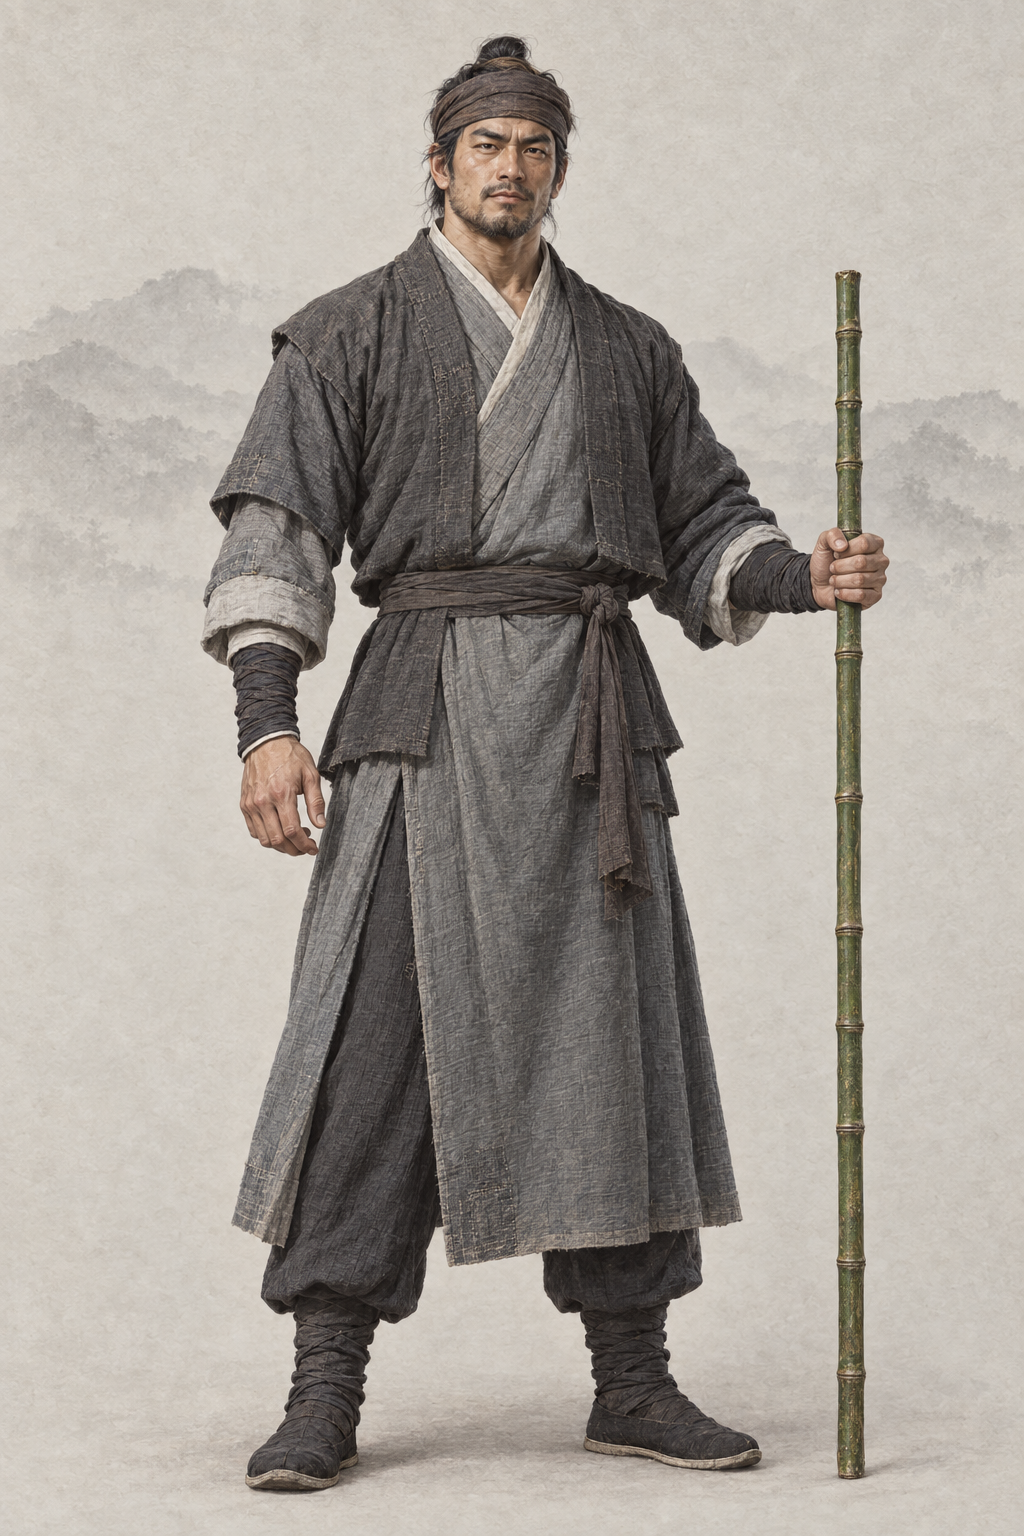
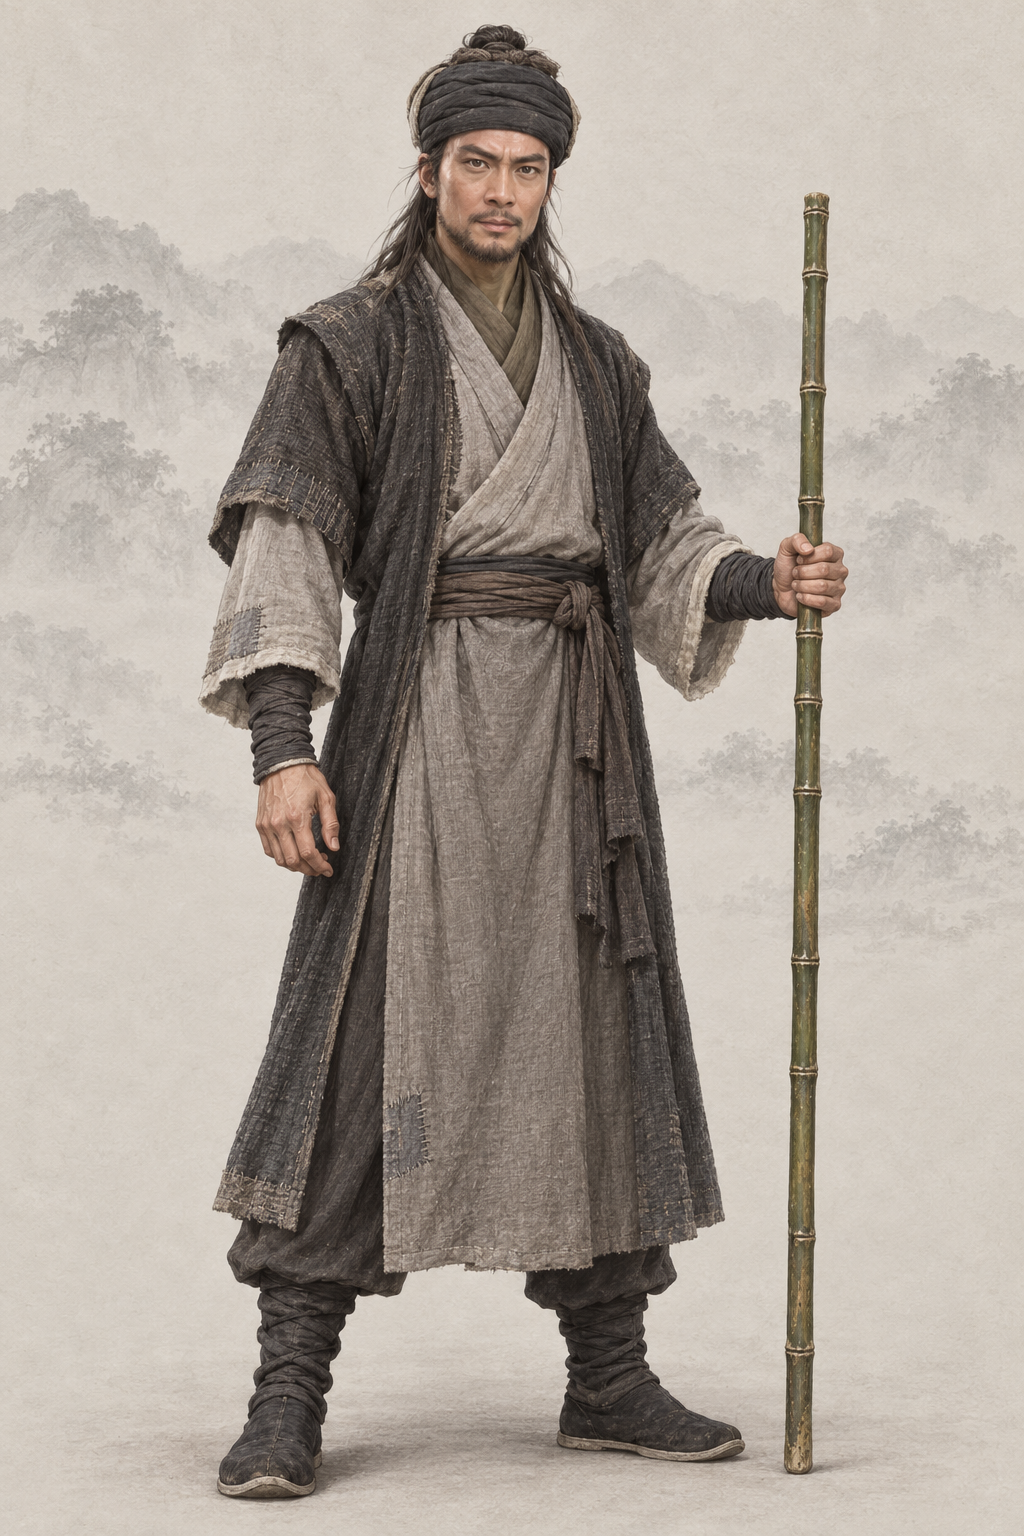
assets(character): por_npc_xiaofeng__ch01_prime_gaibang_base 萧峰（codex · AR-32 经典剧照 + 基线）
参考 1997 TVB《天龙八部》 剧照（classic_qiaofeng_still.png）与两张同性别基线重出；提示词写回、frontmatter 加 classic_ref。

diff --git a/assets/default/prompts/characters/ch01-tianlong/npc_xiaofeng.md b/assets/default/prompts/characters/ch01-tianlong/npc_xiaofeng.md
@@ -19,13 +19,45 @@ status: redo
 realism_revision: user_character_realism_20261001
 redo_reason: "面容源自剧集剧照（肖像风险）且体格不够魁伟、缠头像南亚头巾，按原著国字脸魁伟大汉重做，连同五幅场景"
 reference_upload:
+- .agents/coord/imagegen-reference/hero-20261001/classic_qiaofeng_still.png
 - assets/default/baseline/character/male/ref_npc_linghuchong__ch05_base01.png
+- assets/default/baseline/character/male/ref_npc_xiaofeng__ch01_base01.png
 codex_prompt_rev: 2026-10-02
+classic_ref:
+  version: 1997 TVB《天龙八部》
+  stills:
+  - .agents/coord/imagegen-reference/hero-20261001/classic_qiaofeng_still.png
+  crop:
+    classic_qiaofeng_still.png:
+    - 112
+    - 0
+    - 520
+    - 397
 ---
 
 # 萧峰 · 人物写实修正
 
 ## Gemini 提示词
+
+> 2026-10-02 AR-32 重出（5 号出图员，codex exec · image_gen）：主要角色改为参考经典影视版剧照加项目基线生成。上传顺序：1997 TVB《天龙八部》 剧照 1 张（classic_qiaofeng_still.png），最后两张为同性别画风基线（缩小版 JPEG）。剧照只借造型、气质与面部特征，画面按项目画风重绘、不复制照片。上一版（AR-31 文字版）保留在下一节作历史。
+
+```text
+生成一张 2:3 竖幅全身人物立绘：单人、单一视角、完整全身——头顶、双手、双脚和手中器物的两端都在画面内，四周留出自然空白；人物站姿自然，身体基本朝向正面，头部端正（不歪头、不仰不俯），镜头平视。
+【画风】写实手绘古风人物插画，与本项目写实武侠角色立绘同一画风，像功力深厚的画师用细腻笔触画出的真实人物。手绘插画质感，不是 CG 渲染：不要过度光滑的皮肤、完美对称的五官、塑料高光、过度锐利的发丝；保留自然的笔触和细微不完美。皮肤有真实质感——细小毛孔、细纹、晒痕和自然的左右不对称，不磨皮、不油亮；头发是一缕缕自然的发丝和少量碎发；布料看得出经纬纹理、厚薄和自然垂坠的褶皱，带穿用过的轻微旧化，但完整不破烂；整体设色低饱和、沉稳；柔和的自然光从左上方照来，明暗过渡自然，不打舞台光、轮廓光或美颜柔光。不是照片，不是三维渲染，不是动漫或游戏 CG，也不是油画（没有厚涂笔触和画布纹理）。
+【背景】不透明的暖浅灰色纸底，只在远处有极淡的水墨远山和薄雾，大面积留白；人物与背景明暗分明、轮廓边缘干净完整（后续要自动抠图），水墨和纸纹只在背景里，不侵入人物和衣服；脚下只有很淡的一点接触阴影。
+【人物】萧峰（此时仍叫乔峰），《天龙八部》北宋（约 1093 年）丐帮帮主，杏子林身世揭露之前；豪迈坦荡、重义气的盖世英雄。
+【年龄与体态】约三十岁的壮年男子，身材高大魁伟（明显比常人高出半头），肩宽背厚、胸膛宽阔，前臂粗壮、手掌宽大，筋骨扎实而不是健美肌肉（约 7.5 头身）。
+【经典造型】以九十年代经典港剧里那位豪气干云的乔峰为蓝本（见剧照）：粗犷英武的方脸、浓眉大眼、满脸短硬的络腮胡茬，黑发束髻、用深褐布巾裹住，鬓边几缕散发；一身灰褐粗布袍、宽腰带；顾盼之间极有威势，又坦荡磊落、笑起来豪爽。
+【面容】原著写他浓眉大眼、高鼻阔口、四方的国字脸、颇有风霜之色、顾盼之际极有威势。具体为：四方国字脸、下颌方正宽厚，颧骨高；浓黑粗眉、眉骨突出，一双大眼目光如电；鼻梁高、鼻翼宽；阔口厚唇；两颊与下巴是短而硬的络腮胡茬（不是长须）；常年行走江湖的日晒肤色，额头两道浅横纹，眼角有风霜细纹。粗犷英武、相貌堂堂，是让人心折的盖世英雄——不凶、不丑。
+【发式】黑发全部束成发髻，用一条深褐色旧布巾简单包住发髻（宋代男子常见的裹巾，贴合头形，不是大缠头），鬓边几缕散发。
+【服饰】原著是灰色旧布袍、已微有破烂：灰色右衽旧布长袍，袖口和下摆有几处细密的补缀但整洁，外罩深炭灰短褂，腰间粗布带侧结，深色布裤、旧布鞋。
+【道具】左手竖握一根青绿竹棒（丐帮帮主信物打狗棒，竹节清楚、无金属刃），棒梢高过肩、下端点地；右手自然垂下。
+【姿态与神情】双脚分开稳稳站立，胸膛挺起、肩背舒展；目光坦荡威严、不怒自威，嘴角带一点豪迈的笑意，不摆攻击架势。
+【不要】画面里不要任何文字、题款、印章、签名、水印、边框、分格或多视图；不要第二个人；不要幼态（童颜、娃娃脸、婴儿肥、儿童或少年身材、大头小身）；不要塑料感皮肤、磨皮美颜、网红脸（尖下巴大眼高鼻的模板脸）、过度对称、浓妆、偶像式打光、蜡像感；不要照片质感、三维渲染或动漫大眼；不要歪头、斜镜头；不要多指、缺指（设定的伤残除外）、手与器物粘连或悬空；汉式交领必须右衽（穿着者的左襟压在右襟上），不要左衽（设定为少数民族服制的除外），不要水平镜像；不要现代物品、发光特效、法阵或能量光。不要瘦削或中等身材、不要窄长脸；不要南亚式的大缠头；不要长须、白发；不要契丹皮袍与左衽（此阶段尚是汉人装束）；不要龙形特效。
+【参考图】随提示词上传的参考图共 3 张，按顺序：第 1 张是这个角色经典影视造型的剧照：借鉴其发型、服饰、配色、标志道具、气质和面部特征，让人一眼认出是这个角色；但必须重新绘制成本项目的画风，不要照片质感，不要照搬剧照的构图、光影、背景和姿势，也不要做成照片修图；剧照与上文文字有出入时，以上文文字为准。最后两张是本项目的立绘画风基线：画风、用色、光线、质感和暖浅灰纸底加淡水墨的背景以它们为准——精细写实的数字手绘插画，不是油画，不要厚涂笔触和画布纹理；基线图里人物的长相、年龄、发型、服饰和姿势一律不取。
+```
+
+## AR-31 文字版 Gemini 提示词（2026-10-02 凌晨；AR-32 剧照版之前，历史，不再用于出图）
 
 > 2026-10-02 AR-31 改写（1 号出图员，codex exec · image_gen 出图）：重要人物借鉴经典影视造型，只写成文字——不写演员名、不上传剧照、原创面孔；主角和美人画得好看，去 AI 味，禁止幼态。出图时上传两张同性别基线立绘作画风参考（放在最后）。审核组原稿保留在下一节作历史。
 
